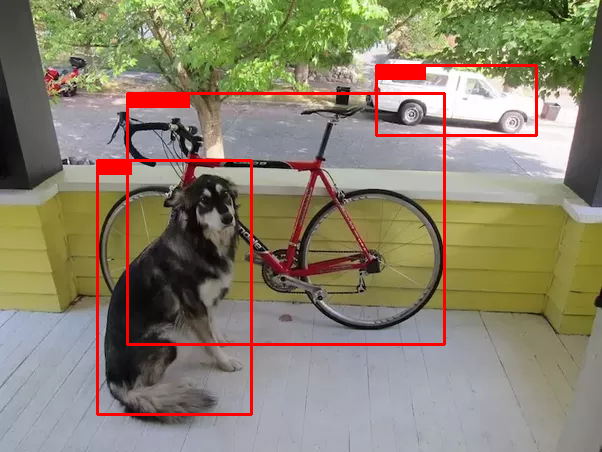
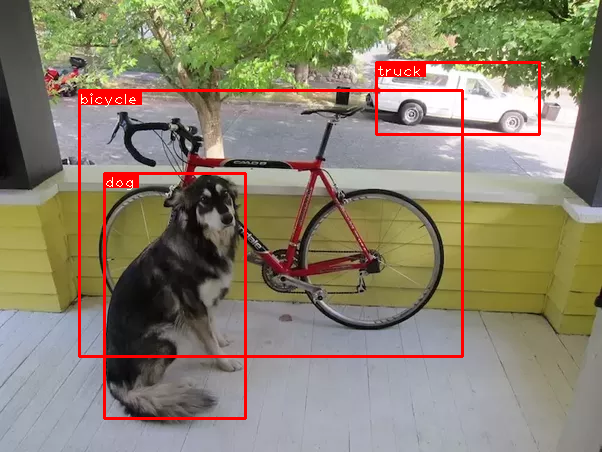
fix

Changed region(s): [[0.1196, 0.1239, 0.897, 0.9292]]

diff --git a/torch_model/YOLO/darknet.py b/torch_model/YOLO/darknet.py
@@ -410,7 +410,7 @@ def write(x, batches, results):
     t_size = cv2.getTextSize(label, cv2.FONT_HERSHEY_PLAIN, 1 , 1)[0]
     c2 = c1[0] + t_size[0] + 3, c1[1] + t_size[1] + 4
     cv2.rectangle(img, (int(c1[0]), int(c1[1])), (int(c2[0]), int(c2[1])) ,color, -1)
-    # cv2.putText(img, label, (c1[0], c1[1] + t_size[1] + 4), cv2.FONT_HERSHEY_PLAIN, 1, [225,255,255], 1)
+    cv2.putText(img, label, (int(c1[0]), int(c1[1]) + t_size[1] + 4), cv2.FONT_HERSHEY_PLAIN, 1, [225,255,255], 1)
     return img
 
 list(map(lambda x: write(x, im_batches, orig_ims), output))
